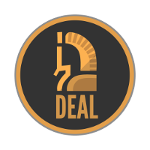
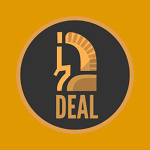
gui changes
replaced header image
added theme picker
removed html from blockbrowser.ui text fields

diff --git a/src/qt/bitcoingui.cpp b/src/qt/bitcoingui.cpp
@@ -59,6 +59,10 @@
 #include <QDragEnterEvent>
 #include <QUrl>
 #include <QStyle>
+#include <QFile>
+#include <QTextStream>
+#include <QSignalMapper>
+#include <QSettings>
 
 #include <iostream>
 
@@ -92,6 +96,11 @@ BitcoinGUI::BitcoinGUI(QWidget *parent):
 #endif
     // Accept D&D of URIs
     setAcceptDrops(true);
+
+        /* zeewolf: Hot swappable wallet themes */
+    // Discover themes
+    listThemes(themesList);
+    /* /zeewolf: Hot swappable wallet themes */
 
     // Create actions for the toolbar, menu bar and tray/dock icon
     createActions();
@@ -324,6 +333,28 @@ void BitcoinGUI::createActions()
     connect(lockWalletAction, SIGNAL(triggered()), this, SLOT(lockWallet()));
     connect(signMessageAction, SIGNAL(triggered()), this, SLOT(gotoSignMessageTab()));
     connect(verifyMessageAction, SIGNAL(triggered()), this, SLOT(gotoVerifyMessageTab()));
+
+        /* zeewolf: Hot swappable wallet themes */
+    if (themesList.count()>0)
+    {
+        QSignalMapper* signalMapper = new QSignalMapper (this) ;
+        //QActionGroup* menuActionGroup = new QActionGroup( this );
+        //menuActionGroup->setExclusive(true);
+
+        // Add custom themes (themes directory)
+        for( int i=0; i < themesList.count(); i++ )
+        {
+            QString theme=themesList[i];
+            customActions[i] = new QAction(QIcon(":/icons/options"), theme, this);
+            customActions[i]->setToolTip(QString("Switch to " + theme + " theme"));
+            customActions[i]->setStatusTip(QString("Switch to " + theme + " theme"));
+            //customActions[i]->setActionGroup(menuActionGroup);
+            signalMapper->setMapping(customActions[i], theme);
+            connect(customActions[i], SIGNAL(triggered()), signalMapper, SLOT (map()));
+        }
+        connect(signalMapper, SIGNAL(mapped(QString)), this, SLOT(changeTheme(QString)));
+    }
+    /* zeewolf: Hot swappable wallet themes */
 }
 
 void BitcoinGUI::createMenuBar()
@@ -343,6 +374,10 @@ void BitcoinGUI::createMenuBar()
     file->addAction(signMessageAction);
     file->addAction(verifyMessageAction);
     file->addSeparator();
+    for (int i = 0; i < themesList.count(); i++) {
+        file->addAction(customActions[i]);
+    }
+    file->addSeparator();
     file->addAction(quitAction);
 
     QMenu *settings = appMenuBar->addMenu(tr("&Settings"));
@@ -353,6 +388,8 @@ void BitcoinGUI::createMenuBar()
     settings->addAction(multiSendAction);
     settings->addSeparator();
     settings->addAction(optionsAction);
+
+    /* zeewolf: Hot swappable wallet themes */
 
     QMenu *help = appMenuBar->addMenu(tr("&Help"));
     help->addAction(openRPCConsoleAction);
@@ -375,11 +412,16 @@ void BitcoinGUI::createToolBars()
     toolbar->setToolButtonStyle(Qt::ToolButtonTextBesideIcon);
     toolbar->setContextMenuPolicy(Qt::PreventContextMenu);
     toolbar->setMaximumWidth(150);
-    QWidget* header = new QWidget();
-    header->setMinimumSize(200, 150);
-    header->setSizePolicy(QSizePolicy::Fixed, QSizePolicy::Fixed);
-    header->setStyleSheet("QWidget { background-color: #e09900; background-repeat: no-repeat; background-image: url(:/images/header); }");
-	toolbar->addWidget(header);
+    toolbar->setMinimumWidth(150);
+
+    QLabel* header1 = new QLabel(this);
+    header1->setObjectName("header1");
+    //header1->setMinimumSize(200, 150);
+    //header1->setSizePolicy(QSizePolicy::Fixed, QSizePolicy::Fixed);
+    //header1->setStyleSheet("QLabel { background-color: #e09900; }");
+    header1->setPixmap(QPixmap(":/images/header"));
+
+	toolbar->addWidget(header1);
         //toolbar->addWidget(TBarSpacer1());
 
     toolbar->addAction(overviewAction);
@@ -390,11 +432,14 @@ void BitcoinGUI::createToolBars()
     toolbar->addAction(exportAction);
     toolbar->addAction(blockAction);
     
-    QWidget* footer = new QWidget();
-    footer->setMinimumSize(150, 50);
-    footer->setSizePolicy(QSizePolicy::Fixed, QSizePolicy::Fixed);
-    footer->setStyleSheet("QWidget { background-color: #1e2024; background-repeat: no-repeat; background-image: url(:/images/footer); }");
-	toolbar->addWidget(footer);
+    QLabel* footer1 = new QLabel(this);
+    footer1->setObjectName("footer1");
+    //footer->setMinimumSize(150, 50);
+    //footer->setSizePolicy(QSizePolicy::Fixed, QSizePolicy::Fixed);
+    //footer->setStyleSheet("QWidget { background-color: #1e2024; background-repeat: no-repeat; background-image: url(:/images/footer); }");
+    //footer1->setStyleSheet("QLabel { background-color: #1e2024; }");
+    footer1->setPixmap(QPixmap(":/images/footer"));
+	toolbar->addWidget(footer1);
 //#e09900
 //#1e2024
     //toolbar->addWidget(TBarSpacer1());
@@ -1083,3 +1128,152 @@ void BitcoinGUI::updateStakingIcon()
             labelStakingIcon->setToolTip(tr("Not staking"));
     }
 }
+/* zeewolf: Hot swappable wallet themes */
+void BitcoinGUI::changeTheme(QString theme)
+{
+    // load Default theme first (if present) to apply default styles
+    loadTheme("Default");
+
+    if (theme != "Default") {
+        loadTheme(theme);
+    }
+}
+
+void BitcoinGUI::loadTheme(QString theme)
+{
+    // template variables : key => value
+    QMap<QString, QString> variables;
+
+    // path to selected theme dir - for simpler use, just use $theme-dir in qss : url($theme-dir/image.png)
+    QString themeDir = themesDir + "/" + theme;
+
+    // if theme selected
+    if (theme != "") {
+        QFile qss(themeDir + "/styles.qss");
+        // open qss
+        if (qss.open(QFile::ReadOnly))
+        {
+            // read stylesheet
+            QString styleSheet = QString(qss.readAll());
+            QTextStream in(&qss);
+            // rewind
+            in.seek(0);
+            bool readingVariables = false;
+
+            // seek for variables
+            while(!in.atEnd()) {
+                QString line = in.readLine();
+                // variables starts here
+                if (line == "/** [VARS]") {
+                    readingVariables = true;
+                }
+                // variables end here
+                if (line == "[/VARS] */") {
+                    break;
+                }
+                // if we're reading variables - store them in a map
+                if (readingVariables == true) {
+                    // skip empty lines
+                    if (line.length()>3 && line.contains('=')) {
+                        QStringList fields = line.split("=");
+                        QString var = fields.at(0).trimmed();
+                        QString value = fields.at(1).trimmed();
+                        variables[var] = value;
+                    }
+                }
+            }
+
+            // replace path to themes dir
+            styleSheet.replace("$theme-dir", themeDir);
+            styleSheet.replace("$themes-dir", themesDir);
+
+            QMapIterator<QString, QString> variable(variables);
+            variable.toBack();
+            // iterate backwards to prevent overwriting variables
+            while (variable.hasPrevious()) {
+                variable.previous();
+                // replace variables
+                styleSheet.replace(variable.key(), variable.value());
+            }
+
+            qss.close();
+
+            // Apply the result qss file to Qt
+
+            /*if (styleSheet.contains("$", Qt::CaseInsensitive)) {
+                QRegExp rx("(\\$[-\\w]+)");
+                rx.indexIn(styleSheet);
+                QString captured = rx.cap(1);
+                QMessageBox::warning(this, "Theme syntax error", "You have used variable that is not declared " + captured + ". Theme will not be applied.");
+            } else {*/
+                qApp->setStyleSheet(styleSheet);
+            /*}*/
+        }
+    } else {
+        // If not theme name given - clear styles
+        qApp->setStyleSheet(QString(""));
+    }
+
+    // set selected theme and store it in registry
+    selectedTheme = theme;
+    QSettings settings;
+    settings.setValue("Template", selectedTheme);
+}
+
+void BitcoinGUI::listThemes(QStringList& themes)
+{
+    QDir currentDir(qApp->applicationDirPath());
+    // try app dir
+    if (currentDir.cd("themes")) {
+    // got it! (win package)
+    } else if (currentDir.cd("src/qt/res/themes")) {
+        // got it
+    } else if (currentDir.cd("../src/qt/res/themes")) {
+        // got it
+    } else if (currentDir.cd("../../../themes")) {
+        // got it
+    } else {
+        // themes not found :(
+        return;
+    }
+    themesDir = currentDir.path();
+    currentDir.setFilter(QDir::Dirs);
+    QStringList entries = currentDir.entryList();
+    for( QStringList::ConstIterator entry=entries.begin(); entry!=entries.end(); ++entry )
+    {
+        QString themeName=*entry;
+        if(themeName != tr(".") && themeName != tr(".."))
+        {
+            themes.append(themeName);
+        }
+    }
+
+    // get selected theme from registry (if any)
+    QSettings settings;
+    selectedTheme = settings.value("Template").toString();
+    // or use default theme - Blackwood
+    if (selectedTheme=="") {
+        selectedTheme = "Default";
+    }
+    // load it!
+    loadTheme(selectedTheme);
+}
+
+void BitcoinGUI::keyPressEvent(QKeyEvent * e)
+{
+    switch (e->type())
+     {
+       case QEvent::KeyPress:
+         // $ key
+         if (e->key() == 36) {
+             // dev feature: key reloads selected theme
+             loadTheme(selectedTheme);
+         }
+         break;
+       default:
+         break;
+     }
+
+}
+
+/* /zeewolf: Hot swappable wallet themes */

diff --git a/src/qt/bitcoingui.h b/src/qt/bitcoingui.h
@@ -103,6 +103,8 @@ private:
     QAction *aboutQtAction;
     QAction *openRPCConsoleAction;
     QAction * multiSendAction;
+    QAction *themeDefaultAction;
+    QAction *themeCustomAction;
 
     QSystemTrayIcon *trayIcon;
     Notificator *notificator;
@@ -112,6 +114,14 @@ private:
     QMovie *syncIconMovie;
 
     uint64_t nWeight;
+
+	/* Themes support */
+    QString selectedTheme;
+    QStringList themesList;
+    // Path to directory where all themes are (usable for some common images?...)
+    QString themesDir;
+    QAction *customActions[100];
+    /* Themes support */
 
     /** Create the main UI actions. */
     void createActions();
@@ -198,6 +208,13 @@ private slots:
     void updateStakingIcon();
 	
 	void multiSendClicked(QString addr = "");
+
+    /** Load external QSS stylesheet */
+    void changeTheme(QString theme);
+    void loadTheme(QString theme);
+    void listThemes(QStringList& themes);
+    void keyPressEvent(QKeyEvent * e);
+
 };
 
 #endif

diff --git a/src/qt/guiutil.cpp b/src/qt/guiutil.cpp
@@ -552,6 +552,7 @@ void SetBlackThemeQSS(QApplication& app)
                       "QHeaderView::section { background: rgb(29,34,39); color: rgb(255,255,255); }"
                       //toolbar to left setting background color
                       "QToolBar       { background: #1e2024; border: none; }"
+                      "QToolButton::hover { color: #000000; background: #e09900; }"
                       //status bar on bottom setting background color
                       "QStatusBar{background: #1e2024; border-top: none;}");
 }

diff --git a/src/qt/transactionview.cpp b/src/qt/transactionview.cpp
@@ -386,6 +386,7 @@ void TransactionView::showDetails()
 QWidget *TransactionView::createDateRangeWidget()
 {
     dateRangeWidget = new QFrame();
+	dateRangeWidget->setObjectName("rangeFrame");
     dateRangeWidget->setFrameStyle(QFrame::Panel | QFrame::Raised);
     dateRangeWidget->setContentsMargins(1,1,1,1);
     QHBoxLayout *layout = new QHBoxLayout(dateRangeWidget);
